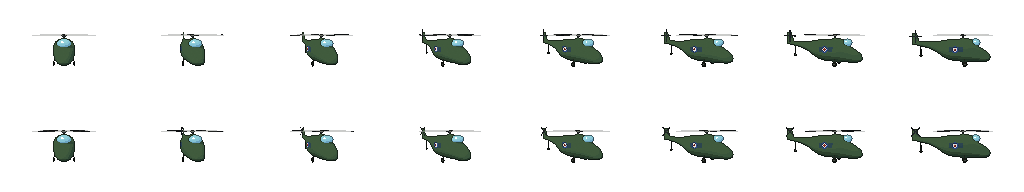
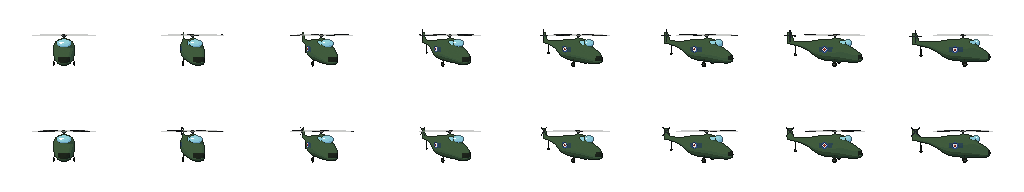
el Wessex mas fiel: parabrisas inclinado de dos paños con su parante, ventanas laterales y la rejilla de la toma en la trompa

diff --git a/tools/blender/modelos_helos.py b/tools/blender/modelos_helos.py
@@ -168,7 +168,9 @@ def wessex(T, K, ph='0'):
     raiz = _raiz(T, 'Wessex')
     piel = mat_pintura(K, 'pintura', dict(arriba=['#3f5b3f'], panza='#304630',
                                           marcas=[dict(z=(-0.25, 0.15), y=(0.05, 0.45), x=(0.7, 1.2), color=VIDRIO_OSC, arriba=False),
-                                                  dict(z=(0.45, 0.85), y=(0.05, 0.45), x=(0.7, 1.2), color=VIDRIO_OSC, arriba=False)]))
+                                                  dict(z=(0.45, 0.85), y=(0.05, 0.45), x=(0.7, 1.2), color=VIDRIO_OSC, arriba=False),
+                                                  # (15/10) la REJILLA de la toma del motor, al frente de la trompa larga
+                                                  dict(z=(-2.62, -2.28), y=(-0.55, -0.18), color='#1c241c', arriba=False)]))
     vidrio = K['mat_cel']('vidrio', CANOPY, brillo=True)
     oscuro = K['mat_cel']('oscuro', '#20251f')
     _subdiv(loft('fuselaje', [(-2.60, 0.10, 0.10, -0.50), (-2.45, 0.40, 0.36, -0.46), (-2.05, 0.60, 0.54, -0.36),
@@ -179,7 +181,13 @@ def wessex(T, K, ph='0'):
     # LA CABINA TREPADA: una joroba sobre la nariz, con el parabrisas
     _subdiv(loft('cabina', [(-1.65, 0.08, 0.05, 0.45), (-1.40, 0.50, 0.32, 0.58), (-0.80, 0.56, 0.42, 0.72),
                             (-0.20, 0.46, 0.36, 0.84), (0.25, 0.15, 0.12, 0.92)], raiz, piel, n=14, expo=2.4, cerrar=(True, True)), 1)
-    elipsoide('parabrisas', (0, 0.78, -1.30), (0.54, 0.34, 0.44), raiz, vidrio, seg=18, anillos=10)   # el vidriado de la cabina trepada, que se vea de costado
+    # EL VIDRIADO de la cabina trepada (15/10, "mas fiel"): no una burbuja sino el PARABRISAS inclinado
+    # de dos paños, con su parante al medio, y las ventanas laterales de los pilotos
+    pb = elipsoide('parabrisas', (0, 0, 0), (0.54, 0.34, 0.24), raiz, vidrio, seg=18, anillos=10)
+    pb.rotation_euler = (0.70, 0, 0); pb.location = (0, 0.80, -1.40)
+    _pieza('parante', raiz, oscuro, (0.04, 0.46, 0.05), (0, 0.82, -1.50), (0.70, 0, 0))
+    for sg in (-1, 1):
+        _pieza('ventana', raiz, vidrio, (0.02, 0.26, 0.42), (sg * 0.52, 0.80, -1.02))
     for sg in (-1, 1):
         elipsoide('escape', (sg * 0.60, -0.10, -1.25), (0.10, 0.11, 0.26), raiz, oscuro, seg=10, anillos=6)
         _pieza('pata', raiz, oscuro, (0.07, 0.55, 0.07), (sg * 0.80, -0.68, -0.40), (0, 0, sg * 0.25))
